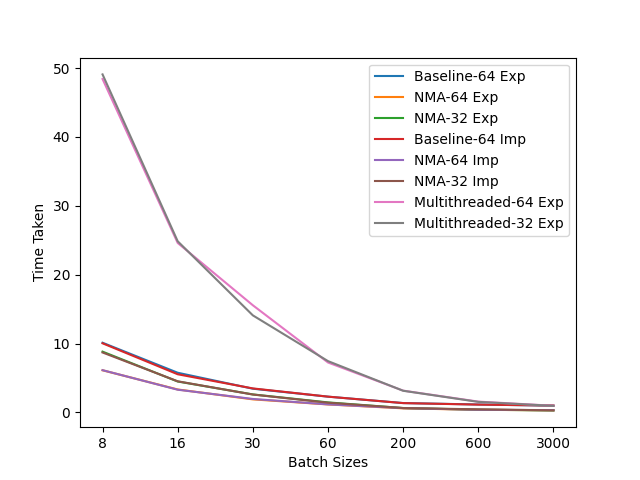
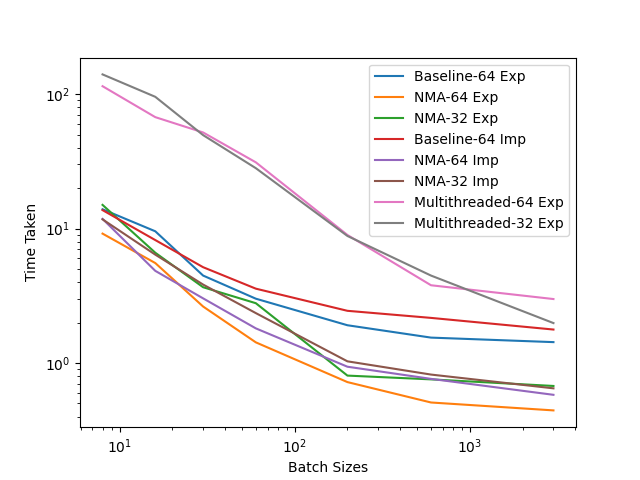
Corrected threading

diff --git a/PA5/main.py b/PA5/main.py
@@ -3,10 +3,10 @@ import os
 import copy
 
 # BEGIN THREAD SETTINGS this sets the number of threads used by numpy in the program (should be set to 1 for Parts 1 and 3)
-def reset_threads(implicit_num_threads=1):
-    os.environ["OMP_NUM_THREADS"] = str(implicit_num_threads)
-    os.environ["MKL_NUM_THREADS"] = str(implicit_num_threads)
-    os.environ["OPENBLAS_NUM_THREADS"] = str(implicit_num_threads)
+implicit_num_threads = 1
+os.environ["OMP_NUM_THREADS"] = str(implicit_num_threads)
+os.environ["MKL_NUM_THREADS"] = str(implicit_num_threads)
+os.environ["OPENBLAS_NUM_THREADS"] = str(implicit_num_threads)
 # END THREAD SETTINGS
 import pickle
 import numpy as np
@@ -92,7 +92,7 @@ def sgd_mss_with_momentum(Xs, Ys, gamma, W0, alpha, beta, B, num_epochs):
     (d, n) = Xs.shape
     V = numpy.zeros(W0.shape)
     W = W0
-    print("Running minibatch sequential-scan SGD with momentum")
+    # print("Running minibatch sequential-scan SGD with momentum")
     for it in tqdm(range(num_epochs)):
         for ibatch in range(int(n/B)):
             ii = range(ibatch*B, (ibatch+1)*B)
@@ -134,7 +134,7 @@ def sgd_mss_with_momentum_noalloc(Xs, Ys, gamma, W0, alpha, beta, B, num_epochs)
         ii = [(i*B + j) for j in range(B)]
         X_batch.append(np.ascontiguousarray(Xs[:,ii]))
         Y_batch.append(np.ascontiguousarray(Ys[:,ii]))
-    print("Running minibatch sequential-scan SGD with momentum (no allocation)")
+    # print("Running minibatch sequential-scan SGD with momentum (no allocation)")
     for it in tqdm(range(num_epochs)):
         for i in range(int(n/B)):
             # ii = range(ibatch*B, (ibatch+1)*B)
@@ -186,13 +186,10 @@ def sgd_mss_with_momentum_threaded(Xs, Ys, gamma, W0, alpha, beta, B, num_epochs
     (d, n) = Xs.shape
     (c, d) = W0.shape
     # TODO perform any global setup/initialization/allocation (students should implement this)
-    g = [np.zeros(W0.shape) for i in range(num_threads)]
+    g = [W0 for i in range(num_threads)]
     Bt = B//num_threads
 
-    W_temp = np.zeros(W0.shape)
-    amax_temp = np.zeros(Bt)
-    softmax_temp = np.zeros((c,Bt))
-
+    W_temp1 = np.zeros(W0.shape)
     # construct the barrier object
     iter_barrier = threading.Barrier(num_threads + 1)
 
@@ -200,12 +197,14 @@ def sgd_mss_with_momentum_threaded(Xs, Ys, gamma, W0, alpha, beta, B, num_epochs
     def thread_main(ithread):
         # TODO perform any per-thread allocations
         for it in range(num_epochs):
+            W_temp = np.zeros(W0.shape)
+            amax_temp = np.zeros(Bt)
+            softmax_temp = np.zeros((c,Bt))
             for ibatch in range(int(n/B)):
                 # TODO work done by thread in each iteration; this section of code should primarily use numpy operations with the "out=" argument specified (students should implement this)
                 ii = range(ibatch*B + ithread*Bt, ibatch*B + (ithread+1)*Bt)
                 iter_barrier.wait()
-
-                np.dot(W0, Xs[:,ii], out=softmax_temp)
+                np.dot(g[ithread], Xs[:,ii], out=softmax_temp)
                 np.amax(softmax_temp, axis=0, out=amax_temp)
                 np.subtract(softmax_temp, amax_temp, out=softmax_temp)
                 np.exp(softmax_temp, out=softmax_temp)
@@ -214,7 +213,7 @@ def sgd_mss_with_momentum_threaded(Xs, Ys, gamma, W0, alpha, beta, B, num_epochs
                 np.subtract(softmax_temp,  Ys[:,ii], out=softmax_temp)
                 np.matmul(softmax_temp,  Xs[:,ii].T, out=W_temp)
                 np.divide(W_temp, B, out=W_temp)
-                np.multiply(gamma,  W0, out=g[ithread])
+                np.multiply(gamma,  g[ithread], out=g[ithread])
                 np.add(W_temp, g[ithread], out=g[ithread])
                 # g[ithread] = multinomial_logreg_grad_i(Xs, Ys, ii, gamma, W0)
                 iter_barrier.wait()
@@ -230,7 +229,11 @@ def sgd_mss_with_momentum_threaded(Xs, Ys, gamma, W0, alpha, beta, B, num_epochs
         for ibatch in range(int(n/B)):
             iter_barrier.wait()
             # TODO work done on a single thread at each iteration; this section of code should primarily use numpy operations with the "out=" argument specified (students should implement this)
-            W0 = W0 - alpha * (1/B) * np.sum(g)
+            # W0 = W0 - alpha * (1/B) * np.sum(g)
+            np.sum(g, axis=0, out=W_temp1)
+            np.multiply(W_temp1, alpha/B, out=W_temp1)
+            np.subtract(W0, W_temp1, out=W0)
+
             iter_barrier.wait()
 
     for t in worker_threads:
@@ -276,8 +279,8 @@ def sgd_mss_with_momentum_noalloc_float32(Xs, Ys, gamma, W0, alpha, beta, B, num
         for i in range(int(n/B)):
             # ii = range(ibatch*B, (ibatch+1)*B)
             # TODO this section of code should only use numpy operations with the "out=" argument specified (students should implement this)
-            np.matmul(W0, X_batch[i], out=Y_temp)
-            np.amax(Y_temp, axis=0, out=amax_temp)
+            np.matmul(W0, X_batch[i], out=Y_temp).astype(numpy.float32)
+            np.amax(Y_temp, axis=0, out=amax_temp).astype(numpy.float32)
             np.subtract(Y_temp, amax_temp, out=softmax_temp, dtype=np.float32)
             np.exp(softmax_temp, out=softmax_temp, dtype=np.float32)
             np.sum(softmax_temp, axis=0, out=amax_temp, dtype=np.float32)
@@ -312,20 +315,39 @@ def sgd_mss_with_momentum_threaded_float32(Xs, Ys, gamma, W0, alpha, beta, B, nu
     (d, n) = Xs.shape
     (c, d) = W0.shape
     # TODO perform any global setup/initialization/allocation (students should implement this)
-    g = [0 for i in range(num_threads)]
+    g = [W0 for i in range(num_threads)]
     Bt = B//num_threads
+
+    W_temp1 = np.zeros(W0.shape)
+    # amax_temp = np.zeros(Bt)
+    # softmax_temp = np.zeros((c,Bt))
     # construct the barrier object
     iter_barrier = threading.Barrier(num_threads + 1)
 
     # a function for each thread to run
     def thread_main(ithread):
+        W_temp = np.zeros(W0.shape)
+        amax_temp = np.zeros(Bt)
+        softmax_temp = np.zeros((c,Bt))
         # TODO perform any per-thread allocations
         for it in range(num_epochs):
             for ibatch in range(int(n/B)):
                 # TODO work done by thread in each iteration; this section of code should primarily use numpy operations with the "out=" argument specified (students should implement this)
                 ii = range(ibatch*B + ithread*Bt, ibatch*B + (ithread+1)*Bt)
                 iter_barrier.wait()
-                g[ithread] = multinomial_logreg_grad_i(Xs, Ys, ii, gamma, W0, np.float32)
+
+                np.dot(g[ithread], Xs[:,ii], out=softmax_temp).astype(np.float32)
+                np.amax(softmax_temp, axis=0, out=amax_temp).astype(np.float32)
+                np.subtract(softmax_temp, amax_temp, out=softmax_temp, dtype=np.float32)
+                np.exp(softmax_temp, out=softmax_temp, dtype=np.float32)
+                np.sum(softmax_temp, axis=0, out=amax_temp, dtype=np.float32)
+                np.divide(softmax_temp, amax_temp, out=softmax_temp, dtype=np.float32)
+                np.subtract(softmax_temp,  Ys[:,ii], out=softmax_temp, dtype=np.float32)
+                np.matmul(softmax_temp,  Xs[:,ii].T, out=W_temp, dtype=np.float32)
+                np.divide(W_temp, B, out=W_temp, dtype=np.float32)
+                np.multiply(gamma,  g[ithread], out=g[ithread], dtype=np.float32)
+                np.add(W_temp, g[ithread], out=g[ithread], dtype=np.float32)
+
                 iter_barrier.wait()
 
     worker_threads = [threading.Thread(target=thread_main, args=(it,)) for it in range(num_threads)]
@@ -339,7 +361,11 @@ def sgd_mss_with_momentum_threaded_float32(Xs, Ys, gamma, W0, alpha, beta, B, nu
         for ibatch in range(int(n/B)):
             iter_barrier.wait()
             # TODO work done on a single thread at each iteration; this section of code should primarily use numpy operations with the "out=" argument specified (students should implement this)
-            W0 = W0 - alpha * (1/B) * np.sum(g)
+            # W0 = W0 - alpha * (1/B) * np.sum(g)
+            np.sum(g, axis=0, out=W_temp1, dtype=np.float32)
+            np.multiply(W_temp1, alpha/B, out=W_temp1, dtype=np.float32)
+            np.subtract(W0, W_temp1, out=W0, dtype=np.float32)
+
             iter_barrier.wait()
 
     for t in worker_threads:
@@ -385,8 +411,8 @@ def generatePlot(listOfElements, nameOfElements, batchSizes, batchNames):
         print(nameOfElements[n])
         print()
         print()
-        plt.plot(batchSizes, element, label=nameOfElements[n])
-        plt.xticks(batchSizes, batchNames)
+        plt.loglog(batchNames, (element), label=nameOfElements[n])
+        # plt.xticks(batchSizes, batchNames)
     plt.xlabel("Batch Sizes")
     plt.ylabel("Time Taken")
     plt.legend(loc="upper right")
@@ -428,9 +454,9 @@ if __name__ == "__main__":
     # In order to make sure that your cores are not overloaded, you should set the number of cores used implicitly by numpy back to 1 (allowing the cores to be used explicitly by your implementation).
     listOfElements = []
     batch_sizes = [8, 16, 30, 60, 200, 600, 3000]
-    if not os.path.exists("model.pickle"):
+
+    if not os.path.exists("part134(1).pickle") and implicit_num_threads==1:
         # ----- PART-1
-        reset_threads()
         sgd_momen, sgd_momen_noalloc = [], []
         for batch_size in batch_sizes:
             sgd_args["B"] = batch_size
@@ -439,32 +465,19 @@ if __name__ == "__main__":
             time_no_alloc, W_no_alloc = run_algo("sgd_momen_no_alloc", sgd_args)
             sgd_momen_noalloc += [time_no_alloc]
             checkSimilarity(W_alloc, W_no_alloc)
-
-        # ----- PART-2
-        # TODO: Change the environ variables here
-        # i_threaded = implicitly_threaded
-        reset_threads(4)
-        i_threaded, noalloc_i_threaded = [], []
-        for batch_size in batch_sizes:
-            sgd_args["B"] = batch_size
-            time_alloc, W_alloc = run_algo("sgd_momen", sgd_args)
-            i_threaded += [time_alloc]
-            time_no_alloc, W_no_alloc = run_algo("sgd_momen_no_alloc", sgd_args)
-            noalloc_i_threaded += [time_no_alloc]
-            checkSimilarity(W_alloc, W_no_alloc)
-
+        
         # ----- PART-3
         # TODO: Reset implicit numpy multithreading
         # e_threaded = explicitly_threaded
-        reset_threads(1)
         e_threaded = []
         threaded_args = copy.copy(sgd_args)
-        threaded_args["num_threads"] = 2
+        threaded_args["num_threads"] = 4
         for batch_size in batch_sizes:
             threaded_args["B"] = batch_size
             time_threaded, Ws = run_algo("sgd_momen_threaded", threaded_args)
             e_threaded += [time_threaded]
-        # ----- PART-4
+
+        # ----- PART-4 (1)
         # fl32_noalloc_e is for explicit threading
         fl32_noalloc_e, fl32_threaded = [], []
         for batch_size in batch_sizes:
@@ -475,7 +488,34 @@ if __name__ == "__main__":
             time_threaded, W_threaded = run_algo("sgd_momen_threaded_fl32", threaded_args)
             fl32_threaded += [time_threaded]
             checkSimilarity(W_threaded, W_no_alloc)
+        
+        listA = [sgd_momen, sgd_momen_noalloc, e_threaded, fl32_noalloc_e, fl32_threaded]
+        pickle.dump(listA, open("part134(1).pickle", "wb"))
 
+    elif os.path.exists("part134(1).pickle"):
+        f1 =  open("part134(1).pickle", "rb")
+        listOfElements134_1 = pickle.load(f1)
+        # listofList = [sgd_momen, sgd_momen_noalloc, e_threaded, fl32_noalloc_e, fl32_threaded]
+        sgd_momen = listOfElements134_1[0]
+        sgd_momen_noalloc = listOfElements134_1[1]
+        e_threaded = listOfElements134_1[2]
+        fl32_noalloc_e = listOfElements134_1[3]
+        fl32_threaded = listOfElements134_1[4]
+
+    if not os.path.exists("part24(2).pickle") and implicit_num_threads==4:
+        # ----- PART-2
+        # TODO: Change the environ variables here
+        # i_threaded = implicitly_threaded
+        i_threaded, noalloc_i_threaded = [], []
+        for batch_size in batch_sizes:
+            sgd_args["B"] = batch_size
+            time_alloc, W_alloc = run_algo("sgd_momen", sgd_args)
+            i_threaded += [time_alloc]
+            time_no_alloc, W_no_alloc = run_algo("sgd_momen_no_alloc", sgd_args)
+            noalloc_i_threaded += [time_no_alloc]
+            checkSimilarity(W_alloc, W_no_alloc)
+        
+        # ----- PART-4 (2)
         # TODO: Change the environ variables here to use implicit therading
         # fl32_noalloc_i is for implicit threading
         fl32_noalloc_i = []
@@ -484,13 +524,20 @@ if __name__ == "__main__":
             time_fl32_noalloc_i, W = run_algo("sgd_momen_no_alloc_fl32", sgd_args)
             fl32_noalloc_i += [time_fl32_noalloc_i]
 
-        listOfElements = [sgd_momen, sgd_momen_noalloc, fl32_noalloc_e, i_threaded, noalloc_i_threaded, fl32_noalloc_i, e_threaded, fl32_threaded]
-        with open("model.pickle", "wb") as f:
-            pickle.dump(listOfElements, f)
-    else:
-        with open("model.pickle", "rb") as f:
-            listOfElements = pickle.load(f)
-    # TODO: Reset implicit numpy multithreading
+        listA = [i_threaded, noalloc_i_threaded, fl32_noalloc_i]
+        pickle.dump(listA, open("part24(2).pickle", "wb"))
+
+    elif os.path.exists("part24(2).pickle"):
+        f2 =  open("part24(2).pickle", "rb")
+        listOfElements24_2 = pickle.load(f2)
+        
+        # listofList = [i_threaded, noalloc_i_threaded, fl32_noalloc_i]
+        i_threaded = listOfElements24_2[0]
+        noalloc_i_threaded = listOfElements24_2[1]
+        fl32_noalloc_i = listOfElements24_2[2]
+
+
+    listOfElements = [sgd_momen, sgd_momen_noalloc, fl32_noalloc_e, i_threaded, noalloc_i_threaded, fl32_noalloc_i, e_threaded, fl32_threaded]
 
     nameOfElements = ["Baseline-64 Exp", "NMA-64 Exp", "NMA-32 Exp", "Baseline-64 Imp", "NMA-64 Imp", "NMA-32 Imp", "Multithreaded-64 Exp", "Multithreaded-32 Exp"]
     generatePlot(listOfElements, nameOfElements, range(len(batch_sizes)), batch_sizes)
